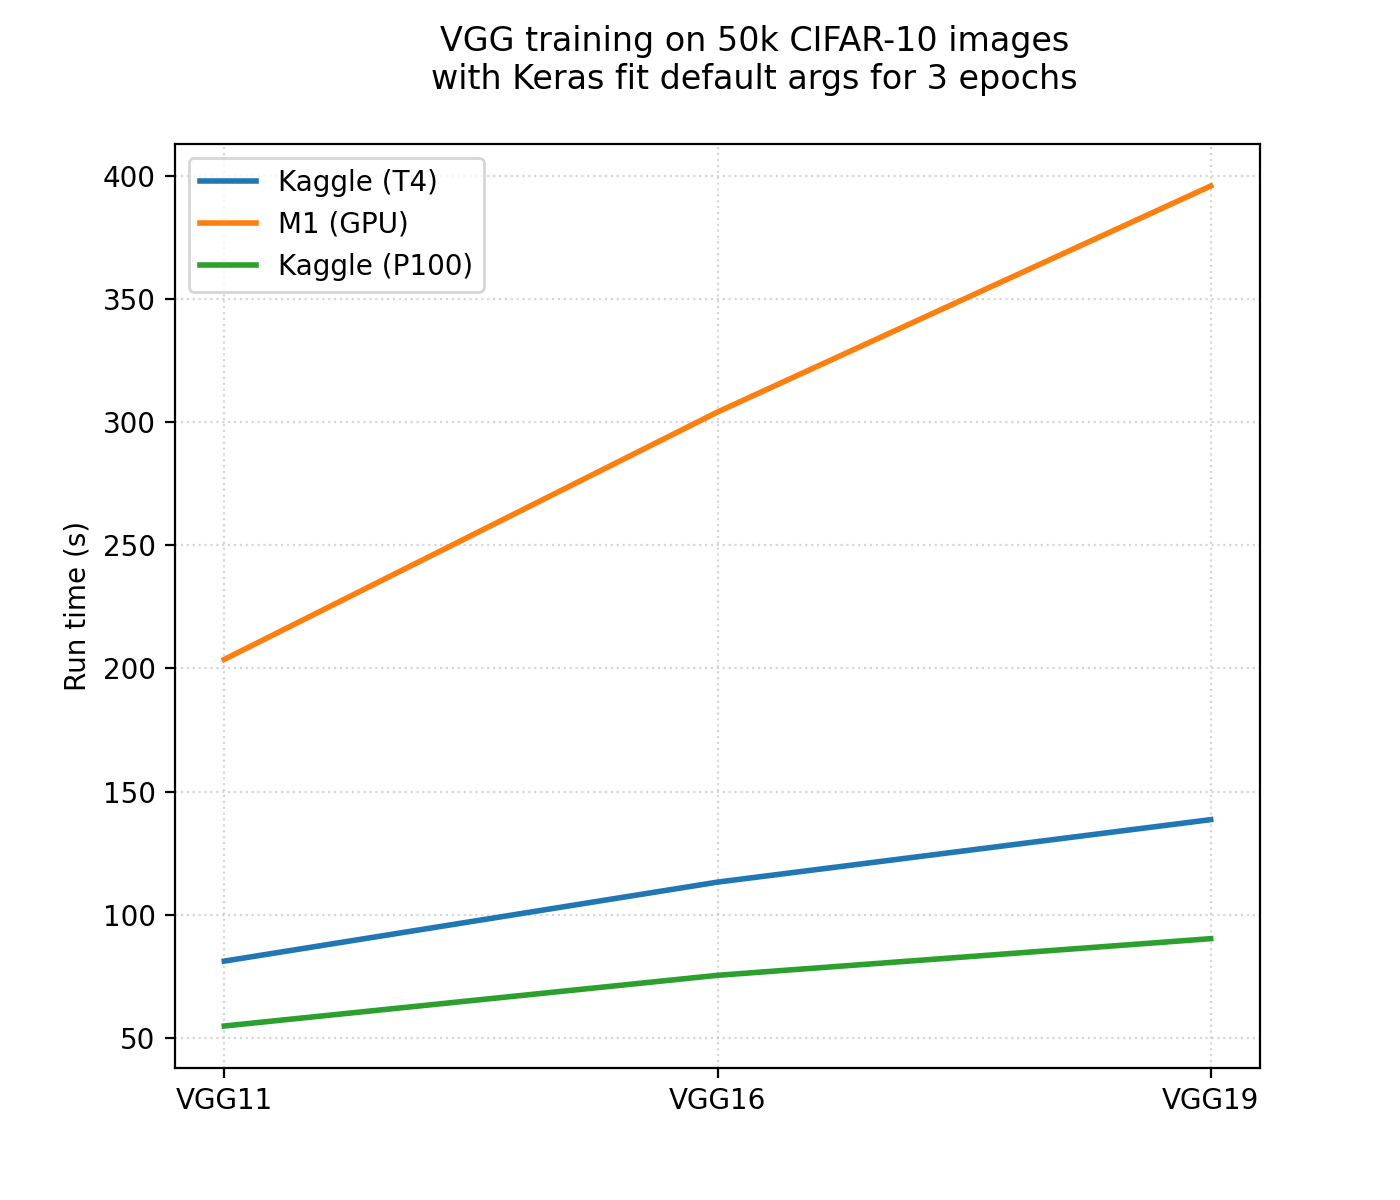
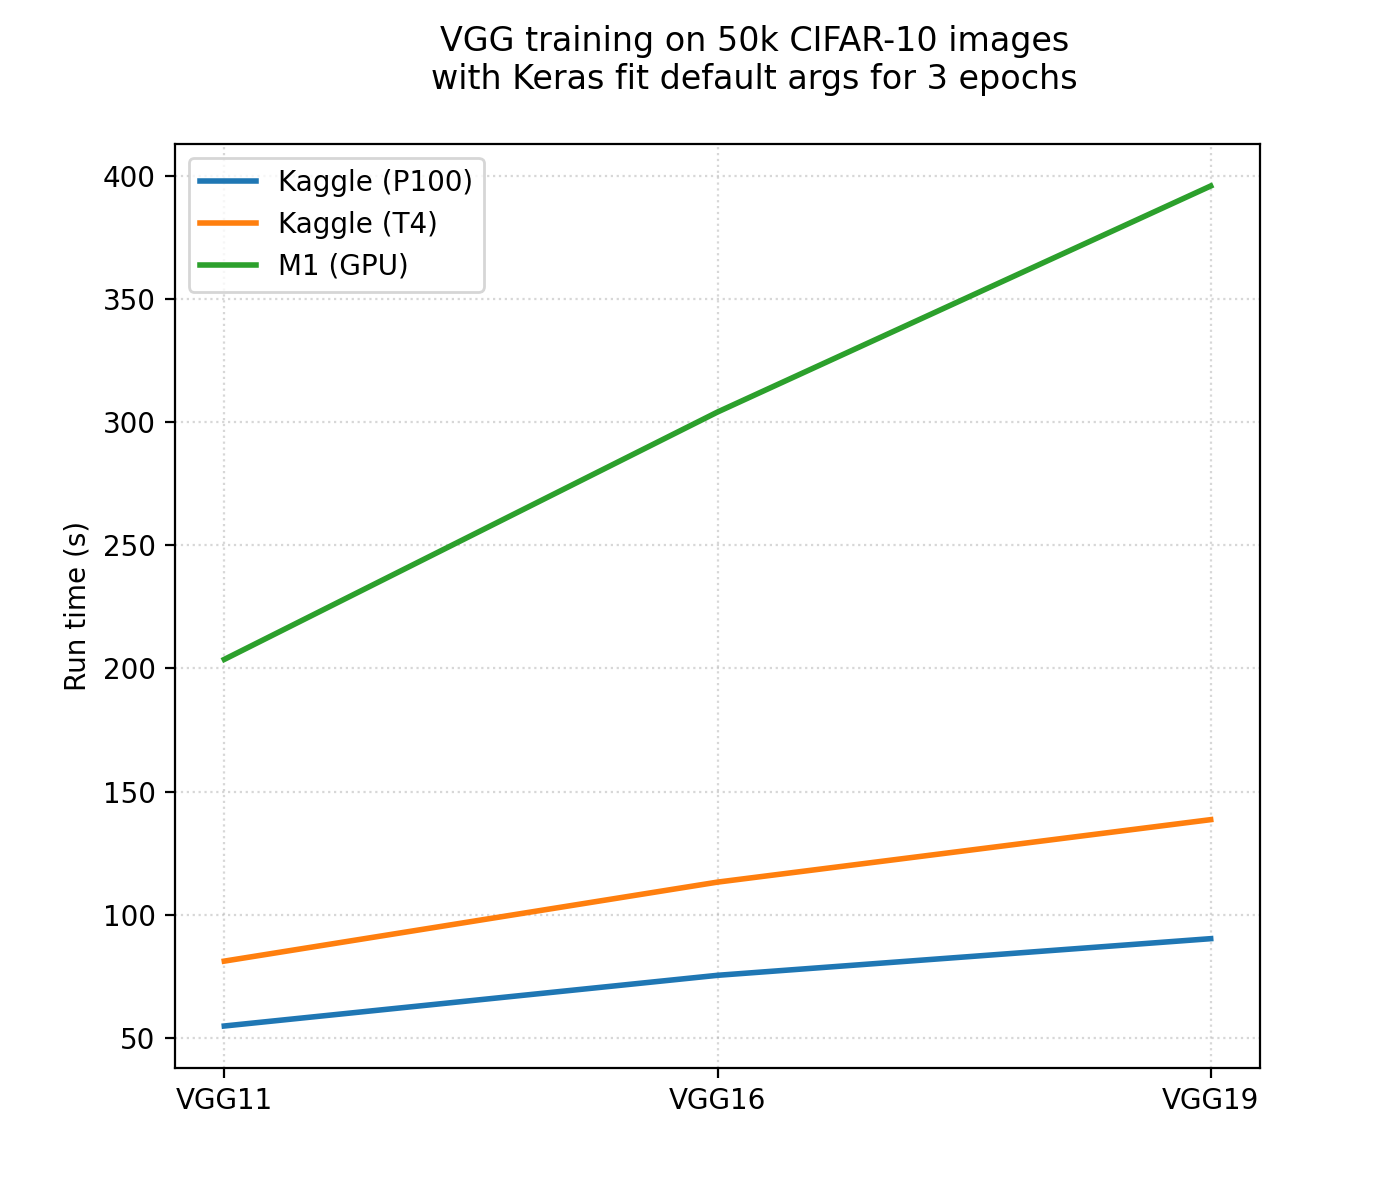
sort labels

diff --git a/run.py b/run.py
@@ -10,7 +10,7 @@ from benchmarks import benchmarks
 
 def plot_results(task: str):
     plt.figure(figsize=(7, 6), dpi=200)
-    for fn in glob.glob(f'results/{task}/*.csv'):
+    for fn in sorted(glob.glob(f'results/{task}/*.csv')):
         df = pd.read_csv(fn)
         x = df.columns.tolist()
         y = df.iloc[0].tolist()
